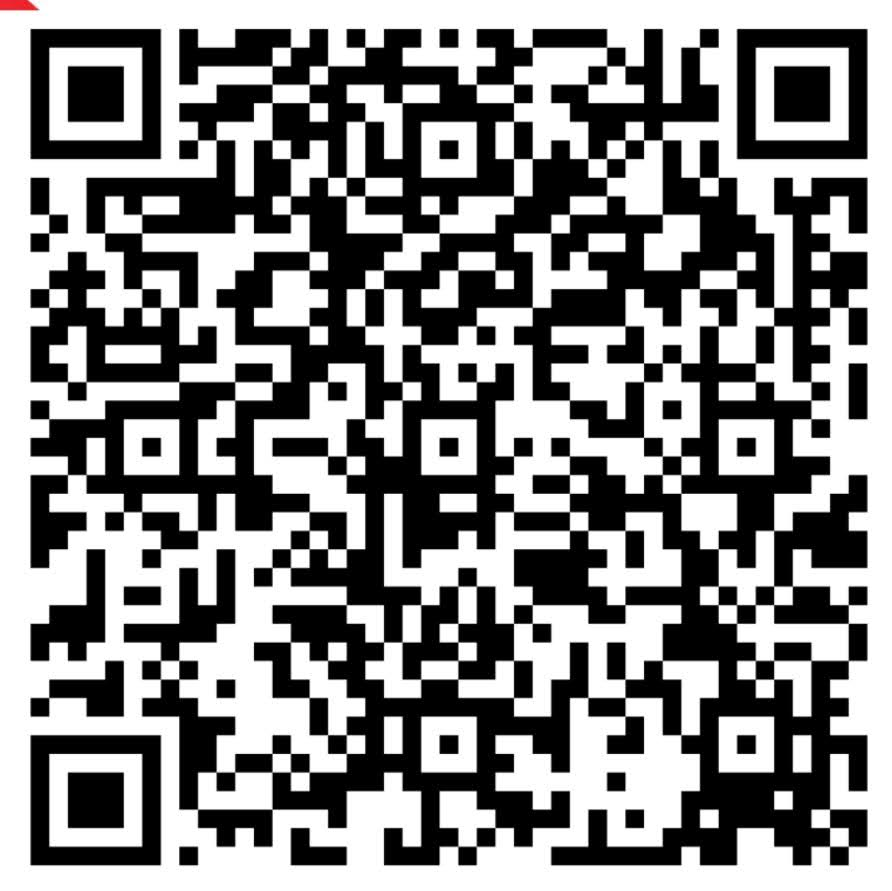
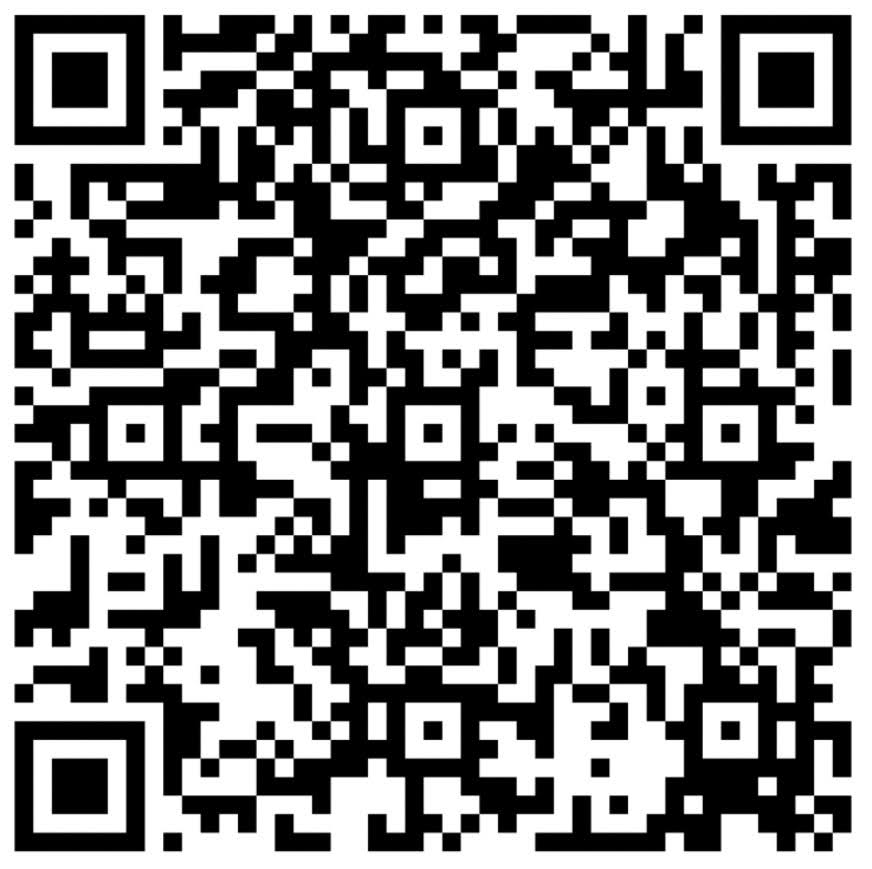
feat(crypto): update official deposit address to 0xE0954c5831FcC9F36cd837Bc69F0A240a3EaeB48 and update manual QRIS

diff --git a/app/api/payments/verify-crypto/route.ts b/app/api/payments/verify-crypto/route.ts
@@ -14,6 +14,7 @@ const TRANSFER_TOPIC = "0xddf252ad1be2c89b69c2b068fc378daa952ba7f163c4a11628f55a
 
 // Official Store Wallets
 const STORE_BSC_WALLETS = [
+  "0xE0954c5831FcC9F36cd837Bc69F0A240a3EaeB48".toLowerCase(),
   "0x25f1C391aF0050c33560C36Aa9FAc9624f1e920e".toLowerCase(),
   "0x397cCe04F6125bA43764dff25Cc91384bF5d9861".toLowerCase(),
   "0xC8C19f3F29ffFE40096b99A236b14e35860E7Ae3".toLowerCase(),

diff --git a/components/storefront/order-payment-box.tsx b/components/storefront/order-payment-box.tsx
@@ -57,7 +57,7 @@ export function OrderPaymentBox({
     cryptoSymbol = "TON / GRAM";
   } else if (isBep20) {
     cryptoNetwork = "BNB Smart Chain (BEP-20)";
-    cryptoAddress = "0x25f1C391aF0050c33560C36Aa9FAc9624f1e920e";
+    cryptoAddress = "0xE0954c5831FcC9F36cd837Bc69F0A240a3EaeB48";
     cryptoSymbol = "BNB / USDT";
   } else if (isBtc) {
     cryptoNetwork = "Bitcoin";

diff --git a/app/pembayaran/checkout-form.tsx b/app/pembayaran/checkout-form.tsx
@@ -89,7 +89,7 @@ const PAYMENT_INFO: Record<
     },
     icon: "/logos/bnb.svg",
     network: "BNB Smart Chain (BEP-20)",
-    address: "0x25f1C391aF0050c33560C36Aa9FAc9624f1e920e",
+    address: "0xE0954c5831FcC9F36cd837Bc69F0A240a3EaeB48",
   },
   usdt_tron: {
     name: {

diff --git a/app/isi-saldo/page.tsx b/app/isi-saldo/page.tsx
@@ -71,7 +71,7 @@ const PAYMENT_METHODS: {
     },
     icon: "/logos/bnb.svg",
     network: "BNB Smart Chain (BEP-20)",
-    address: "0x25f1C391aF0050c33560C36Aa9FAc9624f1e920e",
+    address: "0xE0954c5831FcC9F36cd837Bc69F0A240a3EaeB48",
   },
   {
     id: "usdt_tron",

diff --git a/components/storefront/top-up-modal.tsx b/components/storefront/top-up-modal.tsx
@@ -68,7 +68,7 @@ const PAYMENT_METHODS: {
     },
     icon: "/logos/bnb.svg",
     network: "BNB Smart Chain (BEP-20)",
-    address: "0x25f1C391aF0050c33560C36Aa9FAc9624f1e920e",
+    address: "0xE0954c5831FcC9F36cd837Bc69F0A240a3EaeB48",
   },
   {
     id: "usdt_tron",

diff --git a/bot/main.py b/bot/main.py
@@ -1,4 +1,4 @@
-"""
+"""
 ZELVA AI - Main Telegram Bot Application
 100% matched UI and workflow of Dragon Store Bot (@dragonstorez_bot)
 Includes multi-network wallet top-up (BEP20, TRC20, Binance Pay, QRIS) with TxID submission & Admin 1-click approval.
@@ -44,7 +44,6 @@ from config import (
     SOLANA_ADDRESS,
     TON_ADDRESS,
     BTC_ADDRESS,
-    QRIS_GATEWAY_API_KEY,
     MENU_ICONS,
     UI_ICONS,
     PRODUCT_ICONS,
@@ -107,10 +106,7 @@ def generate_qr_image_bytes(data: str) -> bytes:
 
 import time
 
-BORDERPAY_API_KEY = QRIS_GATEWAY_API_KEY or "bp_live_kyVHMbynDFTis_ZyVTRPyfgbqedCJsNC"
-BORDERPAY_BASE_URL = "https://borderpay.id/api/v1"
-
-_cached_rate = {"rate": 17904.0, "last_updated": 0.0}
+_cached_rate = {"rate": 18053.0, "last_updated": 0.0}
 
 async def get_usd_to_idr_rate() -> float:
     """Fetch real-time USD/USDT to IDR exchange rate with in-memory caching"""
@@ -144,50 +140,6 @@ async def get_usd_to_idr_rate() -> float:
         except Exception:
             pass
     return _cached_rate["rate"]
-
-async def create_borderpay_payment(order_code: str, amount_idr: int) -> dict | None:
-    """Create live dynamic QRIS transaction via BorderPay API"""
-    try:
-        async with httpx.AsyncClient() as client:
-            res = await client.post(
-                f"{BORDERPAY_BASE_URL}/payments",
-                headers={
-                    "Authorization": f"Bearer {BORDERPAY_API_KEY}",
-                    "Content-Type": "application/json"
-                },
-                json={
-                    "amount": amount_idr,
-                    "method": "qris",
-                    "reference_id": order_code
-                },
-                timeout=12.0
-            )
-            if res.status_code in (200, 201):
-                return res.json()
-            else:
-                logger.warning(f"BorderPay create failed: {res.status_code} {res.text}")
-                return None
-    except Exception as e:
-        logger.error(f"BorderPay create exception: {e}")
-        return None
-
-async def check_borderpay_status(order_code: str) -> dict | None:
-    """Check payment status from BorderPay API"""
-    try:
-        async with httpx.AsyncClient() as client:
-            res = await client.get(
-                f"{BORDERPAY_BASE_URL}/payments/{order_code}",
-                headers={
-                    "Authorization": f"Bearer {BORDERPAY_API_KEY}"
-                },
-                timeout=10.0
-            )
-            if res.status_code == 200:
-                return res.json()
-            return None
-    except Exception as e:
-        logger.error(f"BorderPay status exception: {e}")
-        return None
 
 async def send_channel_notification(context: ContextTypes.DEFAULT_TYPE, text: str):
     """Send live order / deposit update to public channel / group"""
@@ -1286,61 +1238,23 @@ async def callback_router(update: Update, context: ContextTypes.DEFAULT_TYPE):
         amt = dep["amount_usd"] if dep else 5.0
         idr_amt = dep["amount_idr"] if dep else int(amt * 17904)
 
-        # 1. Jika metode QRIS, cek otomatis ke gateway BorderPay!
-        if dep and dep.get("network") == "QRIS":
-            status_data = await check_borderpay_status(order_code)
-            if status_data and status_data.get("status") == "paid":
-                # Auto-approve deposit!
-                auto_approve_deposit(order_code, txid=f"BORDERPAY_{order_code}", verified_amount=amt)
-                
-                # Broadcast to live orders channel / group
-                rand_prefix = random.randint(1000, 9999)
-                id_masked = f"{rand_prefix}***"
-                await send_channel_notification(
-                    context,
-                    f'<tg-emoji emoji-id="5287780412746120236">💎</tg-emoji> <b>WALLET TOP UP SUCCESSFUL</b>\n'
-                    f'━━━━━━━━━━━━━━━━━━━\n'
-                    f'<tg-emoji emoji-id="5330237710655306682">👾</tg-emoji> <b>Order:</b> <code>#{order_code}</code>\n'
-                    f'<tg-emoji emoji-id="6017118468661317152">👤</tg-emoji> <b>User:</b> <code>{id_masked}</code>\n'
-                    f'<tg-emoji emoji-id="5287780412746120236">💰</tg-emoji> <b>Amount:</b> <b>+{amt:.2f} USDT</b> (Rp {idr_amt:,.0f})\n'
-                    f'<tg-emoji emoji-id="5287292843763713628">🌐</tg-emoji> <b>Network:</b> <b>QRIS Indonesia</b>\n'
-                    f'<tg-emoji emoji-id="5431721976769027887">⏱</tg-emoji> <b>Status:</b> <b>Instant Approved</b> <tg-emoji emoji-id="6102856637343600044">✅</tg-emoji>\n'
-                    f'━━━━━━━━━━━━━━━━━━━\n'
-                    f'<tg-emoji emoji-id="5877651964208091297">🤖</tg-emoji> <i>Top up wallet & buy AI subscriptions at @{BOT_USERNAME}</i>'
-                )
-
-                success_text = (
-                    f'<tg-emoji emoji-id="5330237710655306682">🎉</tg-emoji> <b>PEMBAYARAN QRIS BERHASIL DITERIMA!</b>\n\n'
-                    f'<tg-emoji emoji-id="6102856637343600044">✅</tg-emoji> Sistem pembayaran telah memverifikasi transaksi Anda.\n'
-                    f'<tg-emoji emoji-id="5287780412746120236">💰</tg-emoji> Saldo <b>+{amt:.2f} USDT</b> (Rp {idr_amt:,.0f}) telah otomatis ditambahkan ke wallet Anda!\n\n'
-                    f'Terima kasih telah melakukan deposit di {BOT_NAME}.'
-                    if lang == "id"
-                    else
-                    f'<tg-emoji emoji-id="5330237710655306682">🎉</tg-emoji> <b>QRIS PAYMENT VERIFIED!</b>\n\n'
-                    f'<tg-emoji emoji-id="6102856637343600044">✅</tg-emoji> Payment gateway has confirmed your payment.\n'
-                    f'<tg-emoji emoji-id="5287780412746120236">💰</tg-emoji> Balance <b>+{amt:.2f} USDT</b> (Rp {idr_amt:,.0f}) has been credited to your wallet!\n\n'
-                    f'Thank you for depositing at {BOT_NAME}.'
-                )
-                buttons = [
-                    [InlineKeyboardButton("👛 " + ("Buka Wallet" if lang == "id" else "Open Wallet"), callback_data="nav:wallet", icon_custom_emoji_id=UI_ICONS["wallet"])],
-                    [InlineKeyboardButton(t("btn_back_menu", lang), callback_data="nav:start", icon_custom_emoji_id=UI_ICONS["back"])]
-                ]
-                try:
-                    await query.edit_message_caption(caption=success_text, parse_mode=ParseMode.HTML, reply_markup=InlineKeyboardMarkup(buttons))
-                except Exception:
-                    await query.edit_message_text(text=success_text, parse_mode=ParseMode.HTML, reply_markup=InlineKeyboardMarkup(buttons))
-                return
-            else:
-                alert_msg = (
-                    "⏳ Pembayaran QRIS belum terdeteksi. Silakan scan QRIS & selesaikan pembayaran terlebih dahulu."
-                    if lang == "id"
-                    else "⏳ QRIS payment not yet detected. Please scan and complete payment."
-                )
-                await query.answer(alert_msg, show_alert=True)
-                return
-
-        # 2. Untuk Binance / USDT, minta TxID
+        # 1. Untuk QRIS Manual / Binance / Crypto, set awaiting_deposit_txid
         context.user_data["awaiting_deposit_txid"] = order_code
+        if dep and dep.get("network") == "QRIS":
+            prompt_txid = (
+                f'<tg-emoji emoji-id="5431721976769027887">🗂</tg-emoji> <b>Konfirmasi Pembayaran QRIS</b>\n\n'
+                f'💰 <b>Total Transfer:</b> <code>Rp {idr_amt:,}</code> (Wajib Pas Sesuai Kode Unik)\n'
+                f'🌐 <b>Metode:</b> QRIS Indonesia (Manual)\n\n'
+                f'Silakan balas pesan ini dengan <b>Nama Rekening Pengirim / Catatan Transfer / Bukti Pembayaran</b> Anda.\n\n'
+                f'<tg-emoji emoji-id="6181322172263308706">⚠</tg-emoji> <i>PENTING: Pastikan Anda mentransfer <b>TEPAT Rp {idr_amt:,}</b> sesuai kode unik agar admin dapat segera memvalidasi & menyetujui deposit saldo Anda.</i>'
+                if lang == "id"
+                else
+                f'<tg-emoji emoji-id="5431721976769027887">🗂</tg-emoji> <b>QRIS Payment Confirmation</b>\n\n'
+                f'💰 <b>Transfer Amount:</b> <code>Rp {idr_amt:,}</code> (Exact Unique Code)\n'
+                f'🌐 <b>Method:</b> QRIS Indonesia (Manual)\n\n'
+                f'Please reply with your <b>Sender Account Name / Reference / Payment Proof</b>.\n\n'
+                f'<tg-emoji emoji-id="6181322172263308706">⚠</tg-emoji> <i>IMPORTANT: Ensure you transferred <b>EXACTLY Rp {idr_amt:,}</b> matching the unique code.</i>'
+            )
         if dep and dep.get("network") == "BINANCE":
             prompt_txid = (
                 f'<tg-emoji emoji-id="5431721976769027887">🗂</tg-emoji> <b>Konfirmasi Pembayaran Binance Pay</b>\n\n'
@@ -1685,41 +1599,33 @@ async def text_message_router(update: Update, context: ContextTypes.DEFAULT_TYPE
                         logger.warning(f"Failed to generate binance QR: {e}")
 
             else: # QRIS
-                header_title = "TOP UP QRIS INSTANT (IDR)"
+                header_title = "TOP UP QRIS INDONESIA (IDR)"
                 net_name = "QRIS Indonesia (All E-Wallet / Bank)"
-                addr_label = "Nominal Pembayaran" if lang == "id" else "Payment Amount"
+                addr_label = "Total Transfer (Wajib Pas)" if lang == "id" else "Exact Payment Amount"
                 addr_val = f"Rp {idr_amt:,.0f}"
                 instructions = (
-                    f"1⃣ Scan foto QRIS di atas (BCA/Mandiri/GoPay/OVO/Dana dll)\n"
-                    f"2⃣ Nominal otomatis terisi, langsung konfirmasi pembayaran\n"
-                    f"3⃣ Tekan '🔄 Cek Status Otomatis' untuk verifikasi instan!"
+                    f"1⃣ Scan foto QRIS di atas (BCA, Mandiri, BRI, BNI, GoPay, OVO, Dana, ShopeePay dll)\n"
+                    f"2⃣ Transfer nominal tepat sesuai tagihan\n"
+                    f"3⃣ Tekan '✅ Saya Sudah Bayar' untuk konfirmasi pembayaran!"
                     if lang == "id"
                     else
-                    f"1⃣ Scan the QRIS code shown above\n"
-                    f"2⃣ Amount is auto-filled, confirm payment\n"
-                    f"3⃣ Tap '🔄 Auto Check Status' for instant approval!"
+                    f"1⃣ Scan the QRIS code shown above (Any Bank / E-Wallet)\n"
+                    f"2⃣ Transfer the exact amount\n"
+                    f"3⃣ Tap '✅ I Have Paid' to confirm your payment!"
                 )
-                warn_note = "⚠ : <i>Sistem otomatis gateway payment online 24 jam.</i>" if lang == "id" else "⚠ : <i>Automated payment gateway ready 24/7.</i>"
+                warn_note = "⚠ : <i>Pastikan transfer tepat sesuai nominal.</i>" if lang == "id" else "⚠ : <i>Please transfer the exact amount.</i>"
 
-                # Generate live BorderPay dynamic QRIS!
-                bp_res = await create_borderpay_payment(order_code, idr_amt)
-                if bp_res and bp_res.get("qr_string"):
-                    qr_str = bp_res["qr_string"]
-                    try:
-                        photo_data = generate_qr_image_bytes(qr_str)
-                    except Exception as e:
-                        logger.warning(f"Failed to generate BorderPay QR image: {e}")
-
-                if not photo_data:
+                qris_path = Path(__file__).resolve().parent / "assets" / "images" / "qris.jpg"
+                if not qris_path.exists():
                     qris_path = Path(__file__).resolve().parent / "assets" / "images" / "qris.png"
-                    if not qris_path.exists():
-                        qris_path = Path(__file__).resolve().parent.parent / "public" / "qris.png"
-                    if qris_path.exists():
-                        try:
-                            with open(qris_path, "rb") as qf:
-                                photo_data = qf.read()
-                        except Exception as e:
-                            logger.warning(f"Failed to read static QRIS image: {e}")
+                if not qris_path.exists():
+                    qris_path = Path(__file__).resolve().parent.parent / "public" / "qris.png"
+                if qris_path.exists():
+                    try:
+                        with open(qris_path, "rb") as qf:
+                            photo_data = qf.read()
+                    except Exception as e:
+                        logger.warning(f"Failed to read static QRIS image: {e}")
 
             if net == "QRIS":
                 invoice_text = (
@@ -1742,7 +1648,7 @@ async def text_message_router(update: Update, context: ContextTypes.DEFAULT_TYPE
                 )
 
                 buttons = [
-                    [InlineKeyboardButton("🔄 " + ("Cek Status Otomatis" if lang == "id" else "Auto Check Status"), callback_data=f"check_payment:{order_code}")],
+                    [InlineKeyboardButton("✅ " + ("Saya Sudah Bayar" if lang == "id" else "I Have Paid"), callback_data=f"check_payment:{order_code}")],
                     [InlineKeyboardButton(t("btn_back_menu", lang), callback_data="nav:start", icon_custom_emoji_id=UI_ICONS["back"])]
                 ]
             elif net == "BINANCE":

diff --git a/bot/config.py b/bot/config.py
@@ -52,13 +52,12 @@ MENU_ICONS = {
 
 # Payment & Deposit Configurations
 BINANCE_ID = os.getenv("BINANCE_ID", "1279190934").strip()
-BEP20_ADDRESS = os.getenv("BEP20_ADDRESS", "0x25f1C391aF0050c33560C36Aa9FAc9624f1e920e").strip()
+BEP20_ADDRESS = os.getenv("BEP20_ADDRESS", "0xE0954c5831FcC9F36cd837Bc69F0A240a3EaeB48").strip()
 TRC20_ADDRESS = os.getenv("TRC20_ADDRESS", "TMdRcZgD7MxyCpjzpT1965bzh5Qob8NYF1").strip()
 SOLANA_ADDRESS = os.getenv("SOLANA_ADDRESS", "Ft3HBG7aaiZQiZo2qPVc4qhQDs4h6XqUrWs6EAMFQmAZ").strip()
 TON_ADDRESS = os.getenv("TON_ADDRESS", "UQDR5BUjd7H5KO8LT1NVUZy6y-6wOYzA4heHi4_py3X42wM1").strip()
 BTC_ADDRESS = os.getenv("BTC_ADDRESS", "14YEFfBwFJ7F5h8rPY7ZjCm18NWGeYcANk").strip()
-QRIS_GATEWAY_API_KEY = os.getenv("QRIS_GATEWAY_API_KEY", "bp_live_kyVHMbynDFTis_ZyVTRPyfgbqedCJsNC").strip()
-BORDERPAY_API_URL = os.getenv("BORDERPAY_API_URL", "https://borderpay.id/api/v1").strip()
+QRIS_STRING = os.getenv("QRIS_STRING", "00020101021126570011ID.DANA.WWW011893600915303323305902090332330590303UMI51440014ID.CO.QRIS.WWW0215ID10265486745590303UMI5204753853033605802ID5907PREMIUM6015Kota Tanjung Pi61052911563047CA2").strip()
 
 UI_ICONS = {
     "back": "5206279843481674100",

diff --git a/bot/blockchain.py b/bot/blockchain.py
@@ -80,7 +80,10 @@ def decode_hex_address(topic_hex: str) -> str:
 def get_allowed_bep20_recipients() -> set[str]:
     recipients = {
         BEP20_ADDRESS.strip().lower(),
-        "0x25f1C391aF0050c33560C36Aa9FAc9624f1e920e".lower(),
+        "0xE0954c5831FcC9F36cd837Bc69F0A240a3EaeB48".lower(),
+        "0x397cCe04F6125bA43764dff25Cc91384bF5d9861".lower(),
+        "0xC8C19f3F29ffFE40096b99A236b14e35860E7Ae3".lower(),
+        "0x3cd1c59d52fbe6E15A428dc9F36397749d9c24B1".lower(),
         "0x0CEAda2e9EF6D2b35cAD36955a744694A03FD27C".lower(),
         "0xa1daa9d62ffd3b7bce6054c6e142dc5a08e2761f".lower(),
         "0x2ec36d32530c754c234efba61430c775455fb3b5".lower(),
